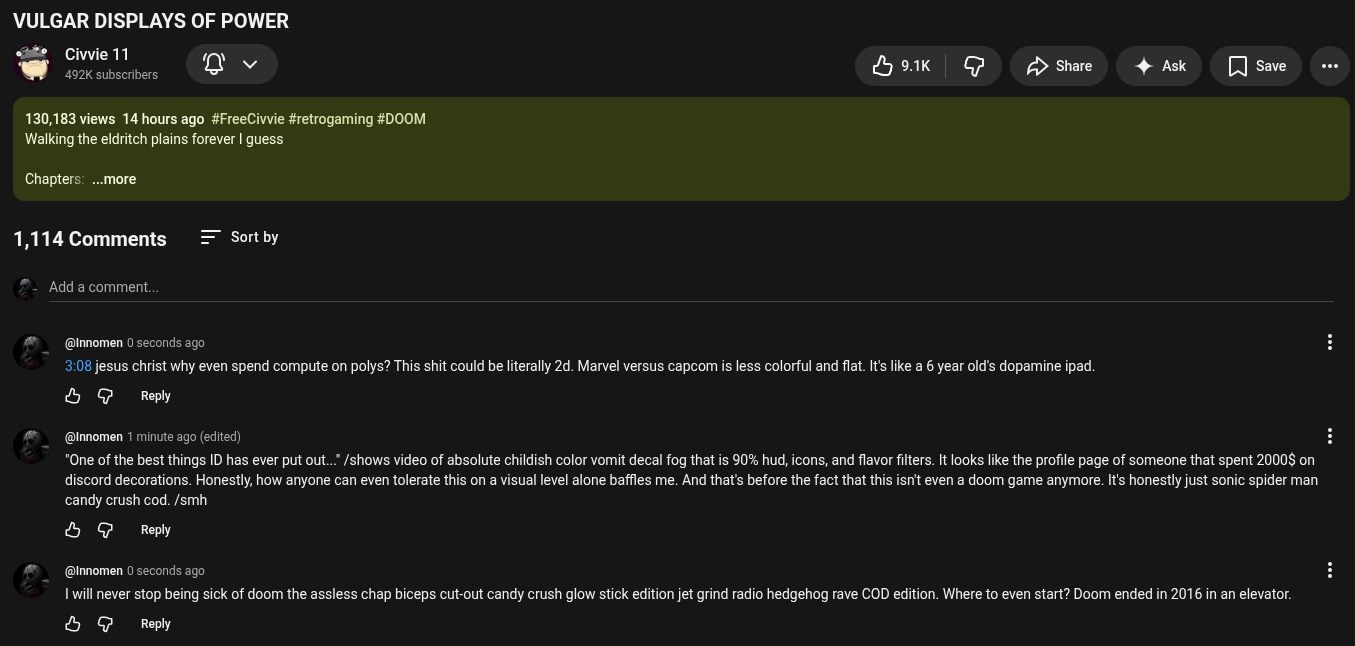
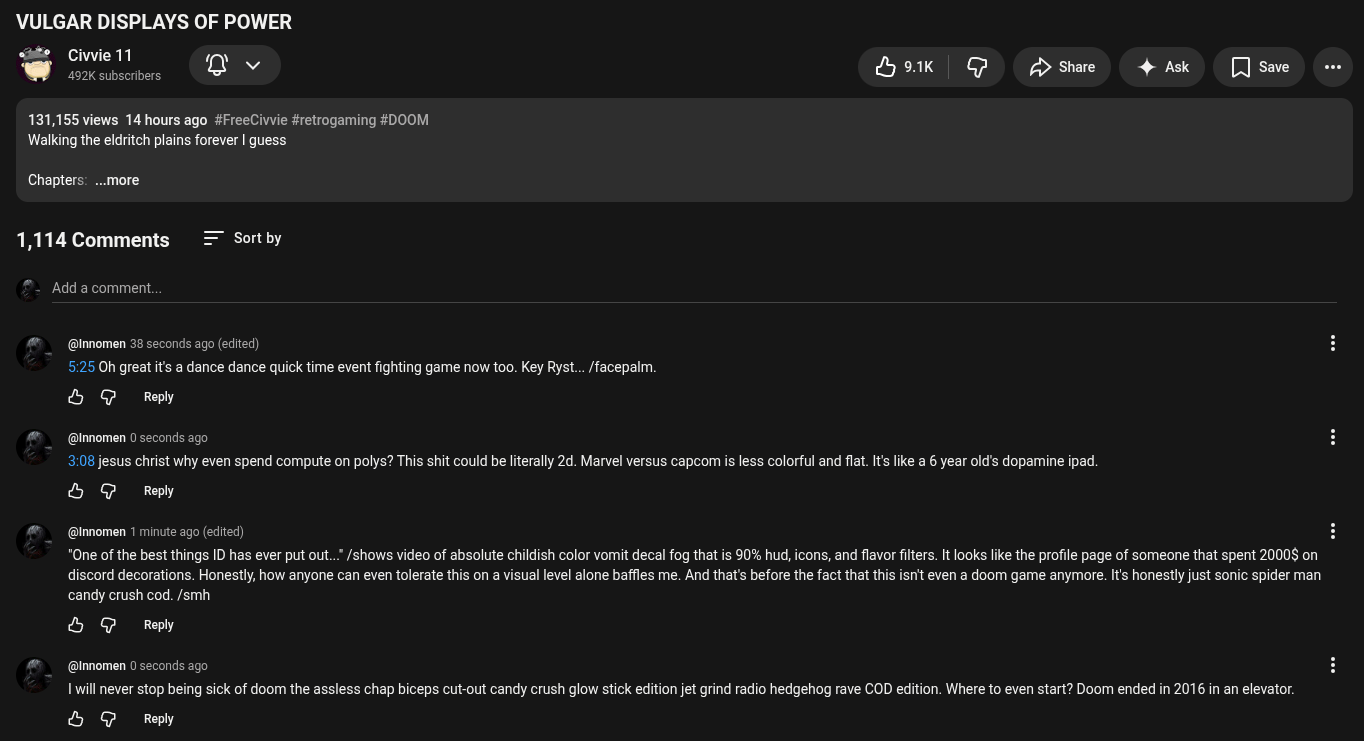
sync: 2 file change(s) 2026-08-25 22:30:28

Changed region(s): [[0.0, 0.4334, 0.9919, 0.9907], [0.0, 0.0, 1.0, 0.4025]]

diff --git a/ocr/Screenshot_20260825_222555.md b/ocr/Screenshot_20260825_222555.md
@@ -1,8 +1,8 @@
 ---
 type: public-take-ocr
 source_image: "../Screenshot_20260825_222555.png"
[1 lines of base64/hex data omitted]
-captured: "2026-08-25T22:26:05-05:00"
[1 lines of base64/hex data omitted]
+captured: "2026-08-25T22:30:21-05:00"
 ocr_engine: tesseract-5
 status: machine-transcribed
 tags: [my-takes, public-take, ocr]
@@ -15,34 +15,43 @@ tags: [my-takes, public-take, ocr]
 ## Machine transcription
 
 VULGAR DISPLAYS OF POWER
-% Chavielll o v Dok G Ashae 4 Ak []sae
 
-492K subscribers
+sie  Civvie 11 “m
+492K subscribers (834
 
-130,183 views 14 hours ago #FreeCivvie #retrogaming #D00M
+otk GA A share 4 Ak []Save e
+
+131,155 views 14 hours ago #FreeCivvie #retrogaming #D00M
 Walking the eldritch plains forever | guess
 
 Chapters: ...more
 
-1,114 Comments = Sortby
+1,114 Comments Sort by
 
-- Add a comment.
+Add a comment.
 
-@ @lnnomen 0 seconds ago
+# _ @nnomen 38 seconds ago (edted)
+
+525 Oh great it's a dance dance quick time event fighting game now too. Key Ryst.../facepaim.
+
+& G Reply
+
+@ @nnomen 0 seconds ago
+
 3,08 jesus christ why even spend compute on polys? This shit could be literally 2d. Marvel versus capcom is less colorful and flat. Its like a 6 year old's dopamine ipad.
 
 & G Reply
 
-#  @innomen 1 minute ago (edited)
+@  @nnomen 1 minute ago (edited)
 
 *One of the best things ID has ever put out.. /shows video of absolute childish color vomit decal fog that is 90% hud, icons, and flavor filters. It looks like the profile page of someone that spent 2000 on
 discord decorations. Honestly, how anyone can even tolerate this on a visual level alone baffles me. And that's before the fact that this isnit even a doom game anymore. Its honestly just sonic spider man
-
 candy crush cod. /smh
 
 & G Reply
 
-@ @lnnomen 0 seconds ago
+@ @nnomen 0 seconds ago
+
 1 will never stop being sick of doom the assless chap biceps cut-out candy crush glow stick edition jet grind radio hedgehog rave COD edition. Where to even start? Doom ended in 2016 in an elevator.
 
 & G Reply
